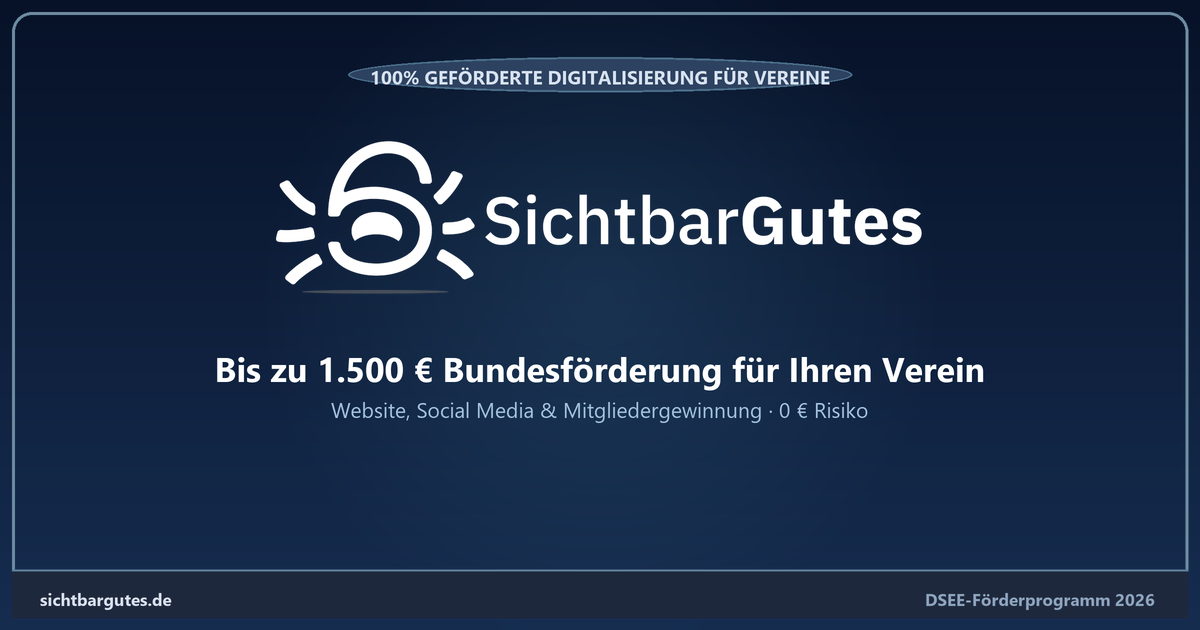
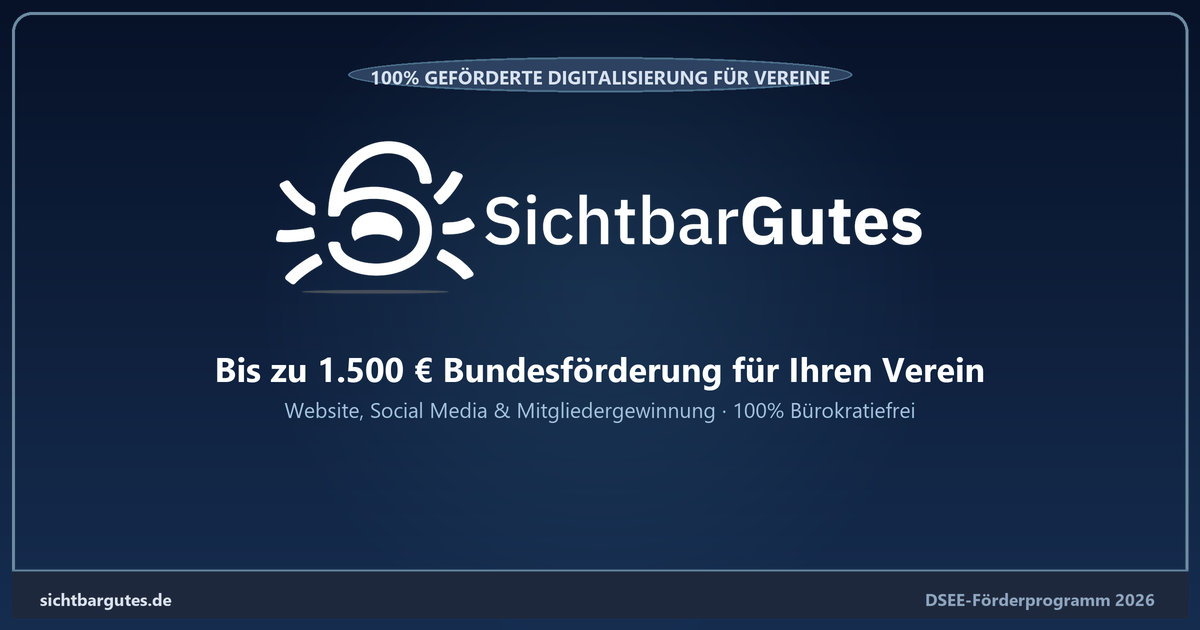
fix(copy): remove all claims of cost coverage on rejection and re-render OG image and website copy

Changed region(s): [[0.2158, 0.6333, 0.7708, 0.6635]]

diff --git a/index.html b/index.html
@@ -9,14 +9,14 @@
     <link rel="apple-touch-icon" sizes="180x180" href="./apple-touch-icon.png?v=20260920" />
     <meta name="viewport" content="width=device-width, initial-scale=1.0" />
     <title>SichtbarGutes · 100% geförderte Digitalisierung für Vereine im ländlichen Raum</title>
-    <meta name="description" content="Bis zu 1.500 € Förderung durch die DSEE. Wir übernehmen den kompletten Förderantrag für Website, Social Media & Recruiting für Ihren Verein – 0 € Kosten bei Ablehnung." />
+    <meta name="description" content="Bis zu 1.500 € Förderung durch die DSEE. Wir übernehmen den kompletten Förderantrag für Website, Social Media & Recruiting für Ihren Verein – 100% bürokratiefrei." />
 
     <!-- Open Graph / WhatsApp / Facebook / LinkedIn / Social Sharing -->
     <meta property="og:type" content="website" />
     <meta property="og:site_name" content="SichtbarGutes" />
     <meta property="og:locale" content="de_DE" />
     <meta property="og:title" content="SichtbarGutes · 100% geförderte Digitalisierung für Vereine" />
-    <meta property="og:description" content="Bis zu 1.500 € Förderung durch die DSEE. Wir übernehmen den kompletten Förderantrag für Website, Social Media & Recruiting für Ihren Verein – 0 € Kosten bei Ablehnung." />
+    <meta property="og:description" content="Bis zu 1.500 € Förderung durch die DSEE. Wir übernehmen den kompletten Förderantrag für Website, Social Media & Recruiting für Ihren Verein – 100% bürokratiefrei." />
     <meta property="og:image" content="https://raw.githubusercontent.com/PUSHACHT/SichtbarGutes/main/public/og_image.png" />
     <meta property="og:image:secure_url" content="https://raw.githubusercontent.com/PUSHACHT/SichtbarGutes/main/public/og_image.png" />
     <meta property="og:image:type" content="image/png" />

diff --git a/src/components/Hero.tsx b/src/components/Hero.tsx
@@ -66,7 +66,7 @@ export const Hero: React.FC<HeroProps> = ({ onStartQuickCheck }) => {
             </div>
             <div className="flex items-center gap-2">
               <CheckCircle2 className="w-4 h-4 text-emerald-400 shrink-0" />
-              <span>0 € Kosten bei Ablehnung</span>
+              <span>Eigenanteil erst nach Bewilligung</span>
             </div>
             <div className="flex items-center gap-2">
               <CheckCircle2 className="w-4 h-4 text-emerald-400 shrink-0" />
@@ -122,7 +122,7 @@ export const Hero: React.FC<HeroProps> = ({ onStartQuickCheck }) => {
             {/* Zero Risk Assurance Banner */}
             <div className="mt-6 pt-4 border-t border-[#2f5b7a] flex items-center gap-3 text-xs text-[#d8e2f0] bg-[#162d50]/60 p-3 rounded-lg">
               <ShieldCheck className="w-5 h-5 text-emerald-400 shrink-0" />
-              <span><strong>100% Risikofrei:</strong> Wird der Antrag wider Erwarten abgelehnt, entstehen Ihnen <strong>0,00 € Kosten</strong>.</span>
+              <span><strong>Transparente Abwicklung:</strong> Keine Vorkasse – der 10%-Eigenanteil wird erst nach offizieller DSEE-Bewilligung fällig.</span>
             </div>
           </div>
         </div>

diff --git a/src/App.tsx b/src/App.tsx
@@ -166,7 +166,7 @@ export default function App() {
     },
     {
       q: "Was passiert, wenn der Antrag abgelehnt wird?",
-      a: "Sollte ein Antrag wider Erwarten von der DSEE abgelehnt werden, tragen wir das Risiko: Für Ihren Verein entstehen in diesem Fall exakt 0,00 € Kosten. Keine Vorkasse, kein Risiko."
+      a: "Die Umsetzung der Maßnahmen und die Zahlung des vertraglichen 10%-Eigenanteils erfolgen erst nach offiziellem, rechtskräftigem Bewilligungsbescheid der DSEE. Sie leisten zu keinem Zeitpunkt eine Vorauszahlung."
     }
   ];
 
@@ -723,7 +723,7 @@ export default function App() {
               <Reveal direction="right" delay={250} className="w-full lg:w-[475px]">
                 <div className="bg-white border border-[#dcd8cf] p-[32px] flex flex-col gap-[16px] items-start w-full h-full shadow-sm">
                   <p className="text-[#162d50] text-[18px] font-bold">
-                    Null Risiko
+                    Keine Vorkasse
                   </p>
                   <p className="text-[#706e65] text-[14px] leading-[1.6]">
                     Sie zahlen ausschließlich den vertraglichen Eigenanteil von 10% nach erfolgreicher Bewilligung. Keine Vorkasse.

diff --git a/src/components/TrustFactors.tsx b/src/components/TrustFactors.tsx
@@ -29,10 +29,10 @@ export const TrustFactors: React.FC = () => {
           <div className="bg-white border border-[#dcd8cf] rounded-xl p-8 shadow-sm">
             <div className="flex items-center gap-3 mb-4">
               <ShieldAlert className="w-6 h-6 text-emerald-600" />
-              <h3 className="text-xl font-bold text-[#162d50]">Null Risiko & Keine Vorkasse</h3>
+              <h3 className="text-xl font-bold text-[#162d50]">Faire Abrechnung & Keine Vorkasse</h3>
             </div>
             <p className="text-base text-[#706e65] leading-relaxed">
-              Der 10%-Eigenanteil (max. 150 €) wird erst nach rechtskräftigem Zuwendungsbescheid fällig. Wird der Antrag abgelehnt, tragen wir das Risiko – für Sie bleibt es 100% kostenlos.
+              Der 10%-Eigenanteil (max. 150 €) wird erst nach rechtskräftigem Zuwendungsbescheid der DSEE fällig. Sie leisten zu keinem Zeitpunkt eine Vorauszahlung.
             </p>
           </div>
 

diff --git a/src/components/StickyMobileCTA.tsx b/src/components/StickyMobileCTA.tsx
@@ -10,7 +10,7 @@ export const StickyMobileCTA: React.FC<StickyMobileCTAProps> = ({ onCheckClick }
     <div className="fixed bottom-0 inset-x-0 z-40 bg-[#162d50]/95 backdrop-blur-md border-t border-[#2f5b7a] p-3 sm:hidden shadow-2xl flex items-center justify-between gap-3">
       <div className="text-white text-xs">
         <span className="font-bold block">1.500 € Förderung</span>
-        <span className="text-[#d8e2f0] text-[10px]">0 € Kosten bei Ablehnung</span>
+        <span className="text-[#d8e2f0] text-[10px]">Eigenanteil erst nach Bewilligung</span>
       </div>
       <button
         onClick={onCheckClick}

diff --git a/src/components/FAQSection.tsx b/src/components/FAQSection.tsx
@@ -23,7 +23,7 @@ export const FAQSection: React.FC = () => {
     },
     {
       q: 'Was passiert, wenn der Antrag abgelehnt wird?',
-      a: 'Sollte ein Antrag wider Erwarten von der DSEE abgelehnt werden, tragen wir das Risiko: Für Ihren Verein entstehen in diesem Fall exakt 0,00 € Kosten. Keine Vorkasse, kein Risiko.'
+      a: 'Die Umsetzung der Maßnahmen und die Zahlung des vertraglichen 10%-Eigenanteils erfolgen erst nach offiziellem, rechtskräftigem Bewilligungsbescheid der DSEE. Sie leisten zu keinem Zeitpunkt eine Vorauszahlung.'
     }
   ];
 

diff --git a/src/components/SchnellCheckForm.tsx b/src/components/SchnellCheckForm.tsx
@@ -190,7 +190,7 @@ export const SchnellCheckForm: React.FC<SchnellCheckFormProps> = ({ initialPlz =
                 </button>
 
                 <p className="text-[11px] text-[#706e65] text-center pt-2">
-                  🔒 100% DSGVO-konform. Keine Weitergabe an Dritte. 0 € Kosten bei Ablehnung.
+                  🔒 100% DSGVO-konform. Keine Weitergabe an Dritte. Kostenlose Ersteinschätzung.
                 </p>
               </form>
             )}
